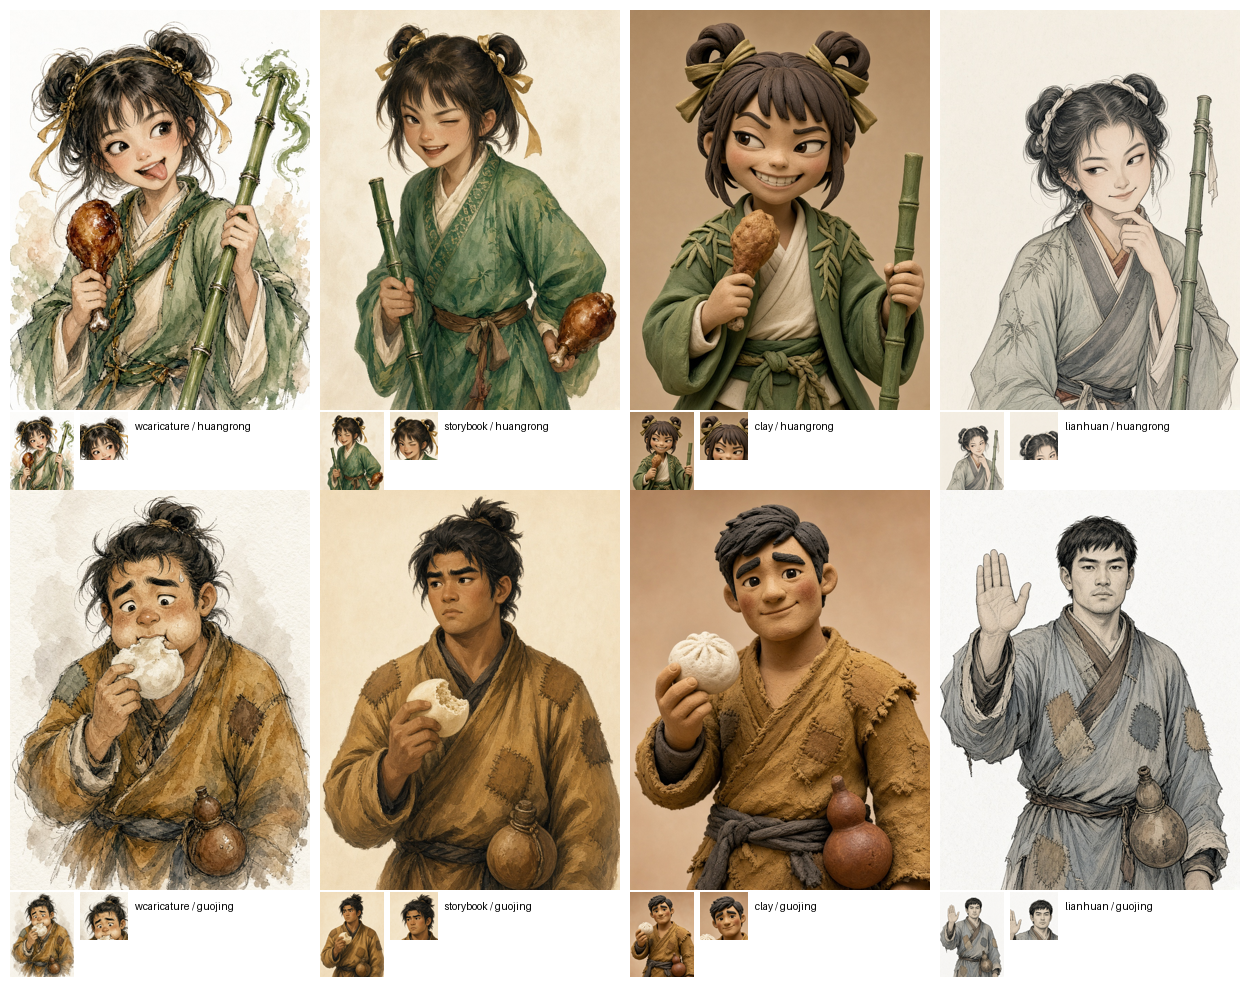
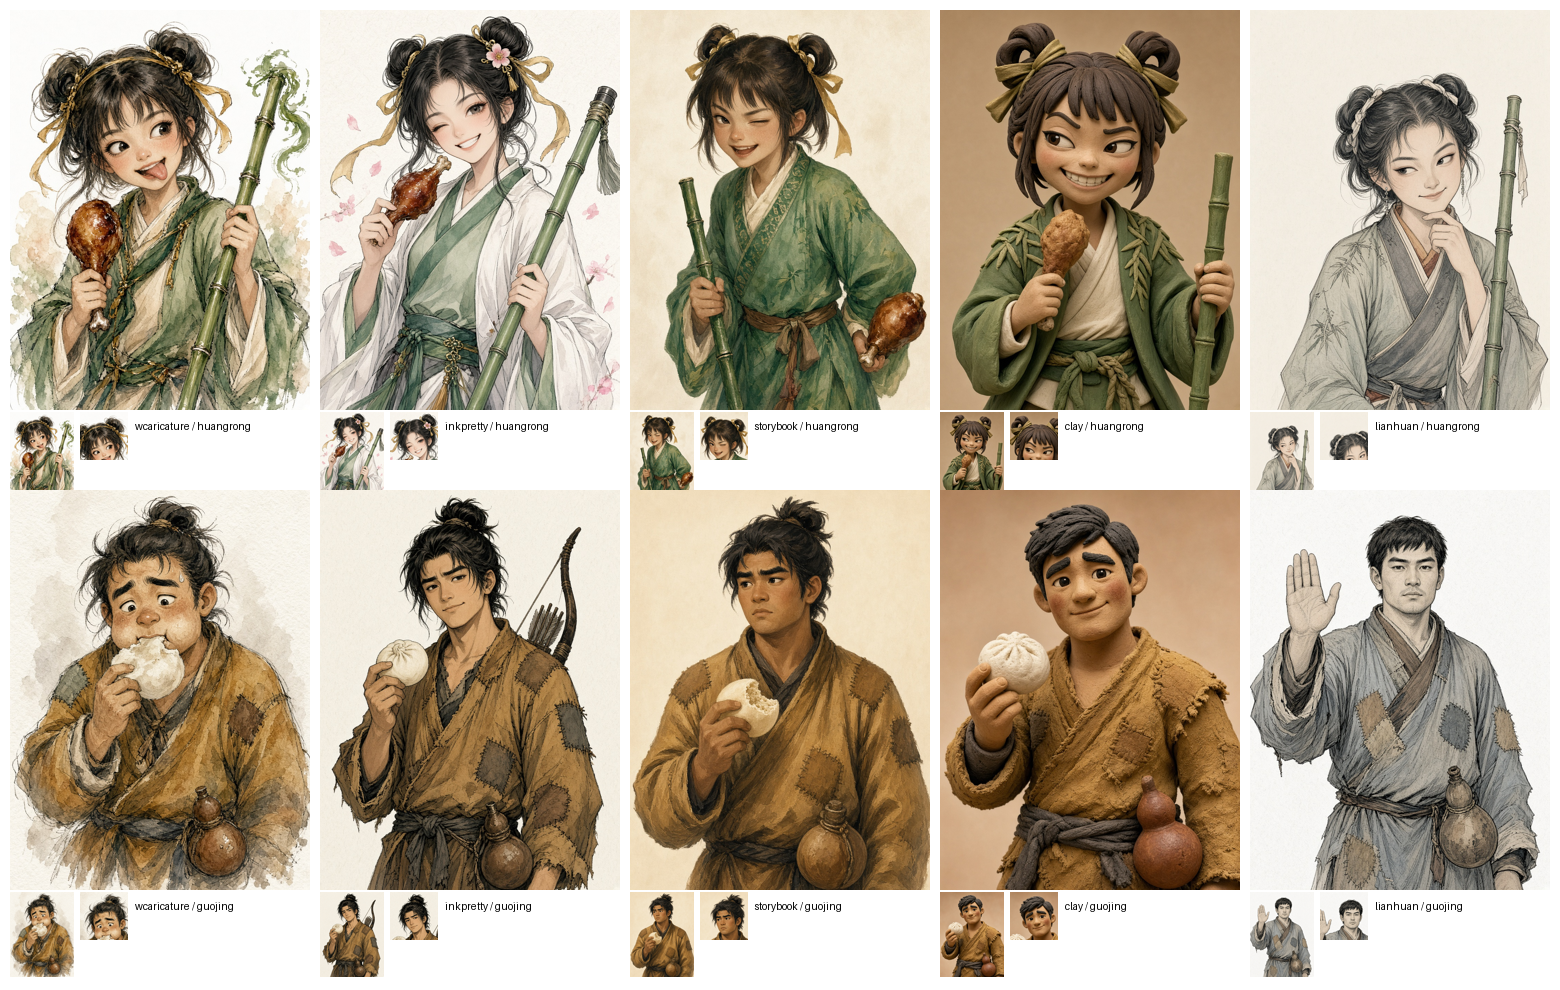
docs: add ink-line pretty direction to style round 2

diff --git a/solo-sect/PORTRAIT-BACKLOG-2026-10-25.md b/solo-sect/PORTRAIT-BACKLOG-2026-10-25.md
@@ -145,6 +145,7 @@
 擁有人不喜歡木刻和重墨，覺得港漫太像漫畫，硬要選的話選諷刺漫畫。第二輪樣張在 `artifacts/portrait-review/style-directions-2.png`，排名以黃蓉為重：
 1. 水彩諷刺漫畫：留住諷刺漫畫的魅力，畫風更像繪畫。黃蓉吐舌拿雞腿最古靈精怪，郭靖鼓著腮幫啃包子最憨。是 PB-21 的首選候選。
 2. 繪本水粉：黃蓉眨眼、雀斑、壞笑，生動但不唯美。郭靖太寫實，喜感偏弱。
+2b. 墨線淡彩唯美（受活俠傳啟發，只借方向，未拿它的圖餵給工具，也沒照描；擁有人現在也能接受唯美）：最完整、最好看，配件也點出身分（黃蓉的桃花簪、郭靖的蒙古弓）。黃蓉有眨眼、拿雞腿，但比水彩版乖；縮圖表現最好。可以跟水彩諷刺漫畫並列首選，再由擁有人二選一。
 3. 黏土定格：最有個性，也最好笑，但偏 3D 動畫感，跟武俠水墨的 UI 可能不搭。可留給特別場景。
 4. 連環畫：樸素、耐看，但黃蓉又回到唯美臉，郭靖也太呆板。不採。
 待擁有人選定後，PB-21 再用該風格為黃蓉、郭靖、阿星定調。

diff --git a/solo-sect/assets/portraits/PROMPTS.md b/solo-sect/assets/portraits/PROMPTS.md
@@ -40,3 +40,4 @@ Files `artifacts/portrait-review/style2-{wcaricature,storybook,clay,lianhuan}-{h
 - clay: "handmade clay stop-motion puppet render, plasticine texture with fingerprints, chunky stylized proportions, soft studio lighting, shallow depth of field, plain warm backdrop".
 - lianhuan: "1960s Chinese lianhuanhua picture-story book illustration, fine realistic ink line with light grey ink wash, a little muted color, plain grounded unidealized face, white paper background. Not anime, not comic".
 Skipped this round: Disco-Elysium-like oil, paper-cut/皮影.
+- inkpretty (活俠傳-inspired direction only, none of its art fed or copied): "clear dark ink linework, light flat watercolor wash with selective soft shading, attractive anime-leaning face, figure cleanly separated from a very pale plain paper background"; identity accessories (黃蓉 peach-blossom hairpin + drumstick + staff; 郭靖 bun + gourd + Mongolian bow). Note: 黃蓉 prompt naming "Huang Rong archetype" was blocked by the provider's content policy; reworded to "clever mischievous young swordswoman".
